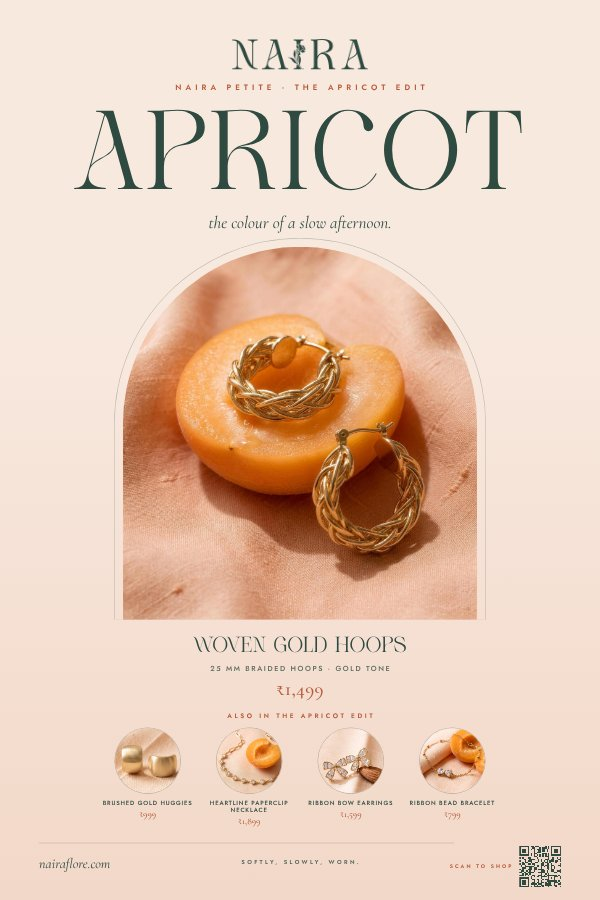
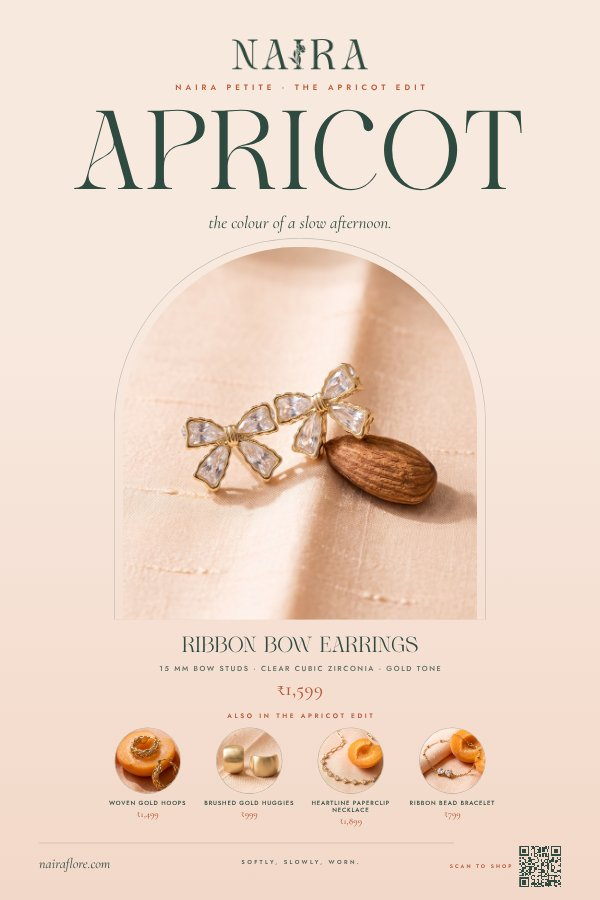
Stall back wall: the three colour-camp standees at 24 × 36 in
The back wall now uses the APRICOT, SAGE and LILAC standee posters, fitted to 24 × 36 in with their vectors intact.
Patches bring them up to date with the live store: the huggies sticker now reads ₹999, every "waterproof" claim is
removed, the spec lines say gold-tone, the Sage QR is redrawn dark on light so phones can read it, and the stand base
carries the brand line. The side-poster heroes are swapped so no photo repeats one on the back wall. elevation.py draws
the walls to scale and a lineup of all seven posters.

Claude-Session: https://claude.ai/code/session_015dHqE92KQXn2h19sPkpsQR

diff --git a/docs/creative/stall/standees_print.py b/docs/creative/stall/standees_print.py
@@ -1,0 +1,194 @@
+# The three colour-camp standees (APRICOT, SAGE, LILAC) as the back-wall posters, 24 × 36 in.
+# The 4 × 6 ft standee PDFs (122 × 182.6 cm, from ../colour-camps) are already 2:3, so each is placed at half size
+# (x 0.4997, y 0.5008 — a 0.2% stretch nobody can see) on an exact 24 × 36 in page, vector intact. Before that, patches are
+# laid over what has changed since September, matched to the original type by measuring each old line:
+#   · Brushed Gold Huggies is now ₹999 (was ₹1,099) — the sticker price is repainted (raster patch, the sticker is glossy)
+#   · the Sage QR was ivory on green, which phones misread: redrawn dark on an ivory tile
+#   · no "waterproof" claims: the Apricot taped strip, the Sage and Lilac footers, the Lilac side facts
+#   · "gold" is always "gold-tone": the Heartbead and Granule Dome spec lines (Sage)
+#   · the 12 cm stand base (now 6 cm) carries a quiet line: NAIRA PETITE · SOFTLY, SLOWLY, WORN.
+# Usage: <venv>/bin/python standees_print.py -> <scratchpad>/stall/out/Naira-Stall-back-<n>-<camp>-24x36in.pdf (+ jpg, preview)
+import io, os, subprocess, sys
+import numpy as np, cv2, segno
+from PIL import Image, ImageDraw, ImageFont
+from pypdf import PdfReader, PdfWriter, Transformation, PageObject
+from reportlab.pdfgen import canvas
+from reportlab.pdfbase import pdfmetrics
+from reportlab.pdfbase.ttfonts import TTFont
+
+SP = "/tmp/claude-0/-home-user-naira-scroll/81f6e48f-a340-5398-99b2-f7e22fb69d37/scratchpad"
+SRC = f"{SP}/stall/pdf/print"; OUT = f"{SP}/stall/out"; WORK = f"{SP}/stall/work/standees"
+MONO = f"{SP}/stall/fonts/JetBrainsMonowght400.ttf"; JOST = f"{SP}/cat/fonts/Jost[wght].ttf"
+pdfmetrics.registerFont(TTFont("JBMono", MONO))
+DPI = 400; K = DPI / 72
+CAMPS = [("A-apricot", 1, "apricot"), ("B-sage", 2, "sage"), ("C-lilac", 3, "lilac")]
+
+def render(pdf, box):
+    """box in pt (x0, y0, x1, y1), top-left origin -> RGB array at DPI"""
+    x0, y0, x1, y1 = box
+    base = f"{WORK}/r"
+    subprocess.run(["pdftoppm", "-r", str(DPI), "-x", str(int(x0 * K)), "-y", str(int(y0 * K)), "-W", str(int((x1 - x0) * K)),
+                    "-H", str(int((y1 - y0) * K)), "-png", "-singlefile", pdf, base], check=True)
+    return np.asarray(Image.open(base + ".png").convert("RGB")).astype(int)
+
+def measure(pdf, box):
+    """bg colour, ink colour and the ink extent (pt, page coords) of one line of text inside box"""
+    a = render(pdf, box); h, w, _ = a.shape
+    edge = np.concatenate([a[0], a[-1], a[:, 0], a[:, -1]])
+    bg = np.median(edge, axis=0)
+    d = np.abs(a - bg).sum(2); ink = d > 60
+    rows = ink.any(1); runs = []; st = None
+    for i, v in enumerate(list(rows) + [False]):          # keep only the line of text nearest the box's middle
+        if v and st is None: st = i
+        if not v and st is not None: runs.append((st, i)); st = None
+    mid = h / 2; r0, r1 = min(runs, key=lambda r: 0 if r[0] <= mid < r[1] else min(abs(r[0] - mid), abs(r[1] - mid)))
+    ink[:r0] = False; ink[r1:] = False
+    ys, xs = np.where(ink)
+    far = a[d >= np.percentile(d[ink], 70)]
+    col = np.median(far, axis=0)
+    x0, y0 = box[0], box[1]
+    return dict(bg=bg, ink=col, left=x0 + xs.min() / K, right=x0 + (xs.max() + 1) / K, top=y0 + ys.min() / K, base=y0 + (ys.max() + 1) / K)
+
+def mono_fit(cap_pt, extent_pt, text):
+    """font size from cap height, letter spacing from the line's ink width"""
+    f = ImageFont.truetype(MONO, 1000); cap = f.getbbox("H")[3] - f.getbbox("H")[1]
+    fs = cap_pt / (cap / 1000)
+    plain = pdfmetrics.stringWidth(text, "JBMono", fs)
+    lsb = f.getbbox(text[0])[0] / 1000 * fs; rsb = (f.getlength(text[-1]) - f.getbbox(text[-1])[2]) / 1000 * fs
+    ls = (extent_pt + lsb + rsb - plain) / max(1, len(text) - 1)
+    return fs, ls, lsb
+
+def rgb(c): return tuple(float(v) / 255 for v in c)
+
+class Patcher:
+    def __init__(self, pdf):
+        self.pdf = pdf; r = PdfReader(pdf); p = r.pages[0]
+        self.W, self.H = float(p.mediabox.width), float(p.mediabox.height)
+        self.buf = io.BytesIO(); self.c = canvas.Canvas(self.buf, pagesize=(self.W, self.H))
+
+    def line(self, box, old, new, cover=None, x=None, base=None, m=None):
+        """replace one line of mono text: measure `old` inside box, cover it, set `new` in the same face, size and spacing"""
+        m = m or measure(self.pdf, box)
+        fs, ls, lsb = mono_fit(m["base"] - m["top"], m["right"] - m["left"], old)
+        c = self.c; cx0, cy0, cx1, cy1 = cover or (m["left"] - 4, m["top"] - 6, m["right"] + 4, m["base"] + 6)
+        c.setFillColorRGB(*rgb(m["bg"])); c.rect(cx0, self.H - cy1, cx1 - cx0, cy1 - cy0, stroke=0, fill=1)
+        t = c.beginText(); t.setFont("JBMono", fs); t.setCharSpace(ls); t.setFillColorRGB(*rgb(m["ink"]))
+        t.setTextOrigin((x if x is not None else m["left"]) - lsb, self.H - (base if base is not None else m["base"])); t.textOut(new); c.drawText(t)
+        return m, fs, ls
+
+    def image(self, im, box):
+        x0, y0, x1, y1 = box; p = f"{WORK}/patch-{abs(hash(box)) % 99991}.png"; im.save(p)
+        self.c.drawImage(p, x0, self.H - y1, x1 - x0, y1 - y0, mask="auto")
+
+    def done(self):
+        self.c.showPage(); self.c.save(); self.buf.seek(0); return PdfReader(self.buf).pages[0]
+
+def apricot(P):
+    # the taped strip, redrawn on its own geometry (apricot.py, 4 ft stand): coral band 1.2 W wide, 1.8u tall, rotated -1.6°
+    Wpx, Hpx = 4611, 6901; u = Wpx / 100; fx, fy = P.W / Wpx, P.H / Hpx
+    base_h = 12 * 96 / 2.54; qr = min(max(.15 * Wpx, 8 * 96 / 2.54), 12 * 96 / 2.54); tick = 1.8 * u
+    tyk = Hpx - base_h - (qr + 2.4 * u) - tick - 1.2 * u
+    cx, cy, w, h = .5 * Wpx * fx, (tyk + tick / 2) * fy, 1.2 * Wpx * fx, tick * fy
+    fs = tick * .40 * fx; ls = .24 * fs
+    c = P.c; c.saveState(); c.translate(cx, P.H - cy); c.rotate(1.6)
+    c.setFillColorRGB(*rgb((224, 121, 90))); c.rect(-w / 2 - 3, -h / 2 - 2, w + 6, h + 4, stroke=0, fill=1)
+    t = c.beginText(); t.setFont("JBMono", fs); t.setCharSpace(ls); t.setFillColorRGB(*rgb((255, 248, 245)))
+    capH = 0.73 * fs; t.setTextOrigin(-w / 2, -capH / 2); t.textOut("SURGICAL STAINLESS STEEL · 18K GOLD TONE · NAIRA PETITE · " * 9); c.drawText(t)
+    c.restoreState()
+    # Brushed Gold Huggies sticker: ₹1,099 -> ₹999. The whole sticker is redrawn with the standee's own PLU drawing
+    # (base.plu_svg, minus its drop shadow, which stays from the original) at the size and centre fitted to the old one.
+    box = (560, 3940, 1000, 4250)
+    a = render(P.pdf, box).astype(np.uint8); ri = a.astype(int)
+    coral = (ri[..., 0] > 185) & (ri[..., 1] > 85) & (ri[..., 1] < 175) & (ri[..., 2] > 55) & (ri[..., 2] < 160) & (ri[..., 0] - ri[..., 2] > 70)
+    n, lab, st, _ = cv2.connectedComponentsWithStats(coral.astype(np.uint8), 8)
+    big = 1 + np.argmax(st[1:, cv2.CC_STAT_AREA])
+    hull = cv2.convexHull(np.argwhere(lab == big)[:, ::-1].astype(np.int32))
+    (ex, ey), (ea, eb), _ = cv2.fitEllipse(hull)
+    cx_pt, cy_pt = box[0] + ex / K, box[1] + ey / K
+    rx_css = max(ea, eb) / 2 / K / .75
+    w = rx_css / (.5 - 4 / 260) * 1.015      # a touch larger, so no edge of the old sticker shows
+    sticker_png(w, cx_pt / .75 - box[0] / .75, cy_pt / .75 - box[1] / .75, (box[2] - box[0]) / .75, (box[3] - box[1]) / .75, f"{WORK}/sticker.png")
+    P.image(Image.open(f"{WORK}/sticker.png"), box)
+
+def plu_svg(w, price_txt, top_txt, bot_txt, code, col, ink):
+    """base.plu_svg from the colour-camp standees, without the drop-shadow ellipse"""
+    k = w / 260; h = w * 0.72; rx, ry = w / 2 - 4 * k, h / 2 - 4 * k; cx, cy = w / 2, h / 2; u = f"{code}{int(w)}"
+    return f'''<svg width="{w:.1f}" height="{h:.1f}" viewBox="0 0 {w:.1f} {h:.1f}" style="overflow:visible;display:block">
+<defs><path id="pt{u}" d="M {cx-rx*0.78:.1f},{cy+2*k:.1f} A {rx*0.78:.1f},{ry*0.74:.1f} 0 0,1 {cx+rx*0.78:.1f},{cy+2*k:.1f}"/>
+<path id="pb{u}" d="M {cx-rx*0.80:.1f},{cy-4*k:.1f} A {rx*0.80:.1f},{ry*0.80:.1f} 0 0,0 {cx+rx*0.80:.1f},{cy-4*k:.1f}"/>
+<linearGradient id="gl{u}" x1="0" y1="0" x2="0.6" y2="1"><stop offset="0" stop-color="#fff" stop-opacity=".30"/><stop offset=".45" stop-color="#fff" stop-opacity="0"/></linearGradient></defs>
+<ellipse cx="{cx:.1f}" cy="{cy:.1f}" rx="{rx:.1f}" ry="{ry:.1f}" fill="{col}"/>
+<ellipse cx="{cx:.1f}" cy="{cy:.1f}" rx="{rx-9*k:.1f}" ry="{ry-9*k:.1f}" fill="none" stroke="{ink}" stroke-width="{1.6*k:.2f}" stroke-opacity=".85"/>
+<text font-family="JetBrains Mono" font-size="{w*0.052:.1f}" letter-spacing="{2.4*k:.1f}" fill="{ink}"><textPath href="#pt{u}" startOffset="50%" text-anchor="middle">{top_txt}</textPath></text>
+<text x="{cx:.1f}" y="{cy+w*0.07:.1f}" text-anchor="middle" font-family="Jost" font-weight="600" font-size="{w*0.20:.1f}" fill="{ink}">{price_txt}</text>
+<text font-family="JetBrains Mono" font-size="{w*0.046:.1f}" letter-spacing="{1.8*k:.1f}" fill="{ink}"><textPath href="#pb{u}" startOffset="50%" text-anchor="middle">{bot_txt}</textPath></text>
+<text x="{cx:.1f}" y="{cy+ry*0.58:.1f}" text-anchor="middle" font-family="JetBrains Mono" font-size="{w*0.040:.1f}" letter-spacing="{1.5*k:.1f}" fill="{ink}" fill-opacity=".8">PLU {code}</text>
+<ellipse cx="{cx:.1f}" cy="{cy:.1f}" rx="{rx:.1f}" ry="{ry:.1f}" fill="url(#gl{u})"/>
+</svg>'''
+
+def sticker_png(w, cx, cy, pw, ph, out):
+    svg = plu_svg(w, "₹999", "NAIRA PETITE · APRICOT", "BRUSHED HUGGIES · 12MM", "14776", "#E0795A", "#FFF8F5")
+    page = (f"<!doctype html><html><head><meta charset='utf-8'><style>@font-face{{font-family:'JetBrains Mono';src:url('file://{MONO}')}}"
+            f"@font-face{{font-family:Jost;src:url('file://{JOST}');font-weight:100 900}}html,body{{margin:0;background:transparent}}</style></head>"
+            f"<body><div style='position:absolute;left:{cx - w / 2:.2f}px;top:{cy - .36 * w:.2f}px;transform:rotate(-8deg)'>{svg}</div></body></html>")
+    open(f"{WORK}/sticker.html", "w").write(page)
+    js = (f"const {{chromium}}=require('playwright');(async()=>{{const b=await chromium.launch();const p=await b.newPage({{viewport:{{width:{round(pw)},height:{round(ph)}}},deviceScaleFactor:{K * .75}}});"
+          f"await p.goto('file://{WORK}/sticker.html');await p.evaluate(()=>document.fonts.ready);await p.waitForTimeout(200);"
+          f"await p.screenshot({{path:'{out}',omitBackground:true}});await b.close();}})();")
+    subprocess.run(["node", "-e", js], check=True, env=dict(os.environ, NODE_PATH="/opt/node-tools/node_modules"))
+
+def sage(P):
+    P.line((700, 4725, 1700, 4795), "WATERPROOF · SURGICAL STAINLESS STEEL", "SURGICAL STAINLESS STEEL · 18K GOLD TONE")
+    P.line((645, 2552, 1560, 2612), "6MM STEEL BEADS · GOLD TOGGLE · 15MM HEART", "6MM STEEL BEADS · GOLD-TONE TOGGLE · 15MM HEART")
+    P.line((1283, 3737, 2240, 3796), "16.8 × 15.7MM DOME · GOLD GRANULATION · NO STONES", "16.8 × 15.7MM DOME · GOLD-TONE GRANULATION · NO STONES")
+    # the QR was ivory on green, which most phone cameras will not read: an ivory tile with green modules, as on Apricot
+    # and Lilac, over the old code's footprint (x 310-663, y 4645-4999 px at 150 ppi on the 24 × 36 in page)
+    sx, sy = P.W / 1728 * .48, P.H / 2592 * .48; pad = 16
+    x0, y0, x1, y1 = (310 - pad) * sx, (4645 - pad) * sy, (663 + pad) * sx, (4999 + pad) * sy
+    c = P.c; c.setFillColorRGB(*rgb((245, 244, 237))); c.roundRect(x0, P.H - y1, x1 - x0, y1 - y0, 13 * sx, stroke=0, fill=1)
+    q = segno.make("https://nairaflore.com/?utm_source=stall", error="m"); mx = q.matrix; n = len(mx)
+    m = (x1 - x0) / (n + 3); qx, qy = x0 + 1.5 * m, y0 + 1.5 * m
+    c.setFillColorRGB(*rgb((31, 58, 49)))
+    for r, row in enumerate(mx):
+        for k, v in enumerate(row):
+            if v: c.rect(qx + k * m, P.H - (qy + (r + 1) * m), m * 1.002, m * 1.002, stroke=0, fill=1)
+
+def lilac(P):
+    m1 = measure(P.pdf, (2685, 1408, 2990, 1476))            # WATERPROOF
+    m2 = measure(P.pdf, (2685, 1468, 3220, 1536))            # SURGICAL STAINLESS
+    m3 = measure(P.pdf, (2685, 1527, 2990, 1594))            # STEEL
+    m4 = measure(P.pdf, (2685, 1587, 3100, 1656))            # RHODIUM PLATED
+    cover = (2680, m1["top"] - 8, 3230, m4["base"] + 10)
+    P.line(None, "WATERPROOF", "SURGICAL STAINLESS", cover=cover, x=m1["left"], base=m1["base"], m=m1)
+    P.line(None, "STEEL", "STEEL", cover=(0, 0, 0, 0), x=m1["left"], base=m2["base"], m=m3)
+    P.line(None, "RHODIUM PLATED", "RHODIUM PLATED", cover=(0, 0, 0, 0), x=m1["left"], base=m3["base"], m=m4)
+    P.line((660, 4548, 1660, 4612), "WATERPROOF · SURGICAL STAINLESS STEEL", "SURGICAL STAINLESS STEEL")
+
+def band_text(page_w, colour_rgb, text="NAIRA PETITE  ·  SOFTLY, SLOWLY, WORN."):
+    """the stand base (bottom 170 pt at 24 × 36 in) with one quiet line, as an overlay at final size"""
+    b = io.BytesIO(); c = canvas.Canvas(b, pagesize=(1728, 2592))
+    pdfmetrics.registerFont(TTFont("JostM", f"{SP}/c4/fonts/Jost-Medium.ttf"))
+    fs = 22; ls = .42 * fs; w = pdfmetrics.stringWidth(text, "JostM", fs) + ls * (len(text) - 1)
+    t = c.beginText(); t.setFont("JostM", fs); t.setCharSpace(ls); t.setFillColorRGB(*colour_rgb)
+    t.setTextOrigin((1728 - w) / 2, 170 / 2 - fs * .35); t.textOut(text); c.drawText(t)
+    c.showPage(); c.save(); b.seek(0); return PdfReader(b).pages[0]
+
+def main():
+    os.makedirs(WORK, exist_ok=True); os.makedirs(f"{OUT}/previews", exist_ok=True)
+    for key, n, name in CAMPS:
+        pdf = f"{SRC}/{key}-4x6ft.pdf"; P = Patcher(pdf)
+        {"A-apricot": apricot, "B-sage": sage, "C-lilac": lilac}[key](P)
+        over = P.done(); page = PdfReader(pdf).pages[0]; page.merge_page(over)
+        out = PageObject.create_blank_page(width=1728, height=2592)
+        out.merge_transformed_page(page, Transformation().scale(1728 / P.W, 2592 / P.H))
+        out.merge_page(band_text(1728, (1.0, 0.973, 0.96)))
+        w = PdfWriter(); w.add_page(out); w.add_metadata({"/Title": f"Naira Petite stall poster - {name} - 24 x 36 in"})
+        dst = f"{OUT}/Naira-Stall-back-{n}-{name}-24x36in"
+        with open(dst + ".pdf", "wb") as f: w.write(f)
+        subprocess.run(["pdftoppm", "-r", "150", "-jpeg", "-jpegopt", "quality=92", "-singlefile", dst + ".pdf", dst], check=True)
+        subprocess.run(["pdftoppm", "-scale-to-x", "600", "-scale-to-y", "900", "-jpeg", "-singlefile", dst + ".pdf",
+                        f"{OUT}/previews/Naira-Stall-back-{n}-{name}-24x36in"], check=True)
+        print(dst + ".pdf")
+
+if __name__ == "__main__":
+    main()

diff --git a/docs/creative/stall/posters.py b/docs/creative/stall/posters.py
@@ -2,8 +2,9 @@
 # themes of the exhibition standees. One per shell-scheme panel, each 24 × 36 in (2 × 3 ft) portrait:
 #   back:            the three catalogue covers, from covers_print.py
 #   spare (SAGE):    sage-edit (Heartbead hero, four more pieces)  ·  about (who Naira is, three on-model arches)
-#   left  (APRICOT): apricot-edit (Woven Gold Hoops hero)          ·  gifting (the blush box, prices by category)
-#   right (LILAC):   lilac-edit (Prism Rivière hero)               ·  catalogue (twelve on-model pieces, a large QR)
+#   left  (APRICOT): apricot-edit (Ribbon Bow Earrings hero)       ·  gifting (the blush box, prices by category)
+#   right (LILAC):   lilac-edit (Serpentine Whisper Chain hero)    ·  catalogue (twelve on-model pieces, a large QR)
+#   (the heroes differ from the back-wall Apricot and Lilac standees beside them, so no photo appears twice)
 # Pages are laid out at 96 CSS px per inch, so the PDF is exactly 24 × 36 in with the photos embedded at their own
 # resolution; a 150 ppi JPG and a small preview are written too.
 # Usage: posters.py [name ...] -> <scratchpad>/stall/out/Naira-Stall-<wall>-<n>-<name>-24x36in.{pdf,jpg}, previews/
@@ -28,17 +29,17 @@ THEME = {
     "LILAC":   dict(g1="#F2ECF5", g2="#E4D8EC", deep="#3A2D52", acc="#76599B", soft="#DDD0E7", line="rgba(58,45,82,.30)"),
 }
 EDITS = {
-    "APRICOT": dict(word="APRICOT", line="the colour of a slow afternoon.", hero=("A-apricot/i-001.jpg", (.49, .565)), h="woven-gold-hoops",
-                    spec="25 mm braided hoops · gold tone", more=[("brushed-gold-huggies", "A-apricot/i-005.jpg", (.5, .5)),
-                    ("heartline-paperclip-necklace", "A-apricot/i-007.jpg", (.5, .52)), ("ribbon-bow-earrings", "A-apricot/i-009.jpg", (.48, .45)),
+    "APRICOT": dict(word="APRICOT", line="the colour of a slow afternoon.", hero=("A-apricot/i-009.jpg", (.5, .5)), h="ribbon-bow-earrings",
+                    spec="15 mm bow studs · clear cubic zirconia · gold tone", more=[("woven-gold-hoops", "A-apricot/i-001.jpg", (.49, .565)),
+                    ("brushed-gold-huggies", "A-apricot/i-005.jpg", (.5, .5)), ("heartline-paperclip-necklace", "A-apricot/i-007.jpg", (.5, .52)),
                     ("ribbon-bead-bracelet", "A-apricot/i-011.jpg", (.5, .55))]),
     "SAGE":    dict(word="SAGE", line="the colour of quiet.", hero=("B-sage/i-003.jpg", (.55, .49)), h="heartbead-bracelet",
                     spec="6 mm steel beads · gold-tone toggle and heart", more=[("toggle-link-chain", f"{PLATES}/SAGE/sage_YF5143_S1_a5g.jpg", (.45, .46)),
                     ("verdant-circlet-studs", f"{PLATES}/SAGE/sage_FE02847B_S1_a4g.jpg", (.55, .45)), ("granule-dome-ring", f"{PLATES}/SAGE/sage_JDR0104337_S3_a2g.jpg", (.62, .38)),
                     ("chevron-whisper-ring", f"{PLATES}/SAGE/sage_JDR0303312-7_S3_a2g.jpg", (.6, .38))]),
-    "LILAC":   dict(word="LILAC", line="the colour of evening.", hero=("C-lilac/i-006.jpg", (.52, .485)), h="prism-riviere-bracelet",
-                    spec="5 mm cushion-cut cubic zirconia · rhodium", more=[("pearl-blossom-earrings", "C-lilac/i-015.jpg", (.55, .52)),
-                    ("silver-drop-earrings", "C-lilac/i-024.jpg", (.55, .55)), ("serpentine-whisper-chain-silver", "C-lilac/i-037.jpg", (.5, .6)),
+    "LILAC":   dict(word="LILAC", line="the colour of evening.", hero=("C-lilac/i-037.jpg", (.5, .55)), h="serpentine-whisper-chain-silver",
+                    spec="2 mm snake chain · 10 mm cushion-cut cubic zirconia · rhodium", more=[("prism-riviere-bracelet", "C-lilac/i-006.jpg", (.52, .485)),
+                    ("pearl-blossom-earrings", "C-lilac/i-015.jpg", (.55, .52)), ("silver-drop-earrings", "C-lilac/i-024.jpg", (.55, .55)),
                     ("vintage-halo-ring", "C-lilac/i-046.jpg", (.5, .62))]),
 }
 

diff --git a/docs/creative/stall/elevation.py b/docs/creative/stall/elevation.py
@@ -1,0 +1,54 @@
+# The stall unfolded: left wall, back wall and right wall side by side, each 24 × 36 in poster on its own white
+# shell-scheme panel (about 1 m × 2.5 m, aluminium uprights) at true scale, with the table line and a person for scale.
+# Usage: elevation.py <out.jpg> <left-1> <left-2> <back-1> <back-2> <back-3> <right-1> <right-2>   (poster JPGs)
+#        elevation.py --lineup <out.jpg> <same seven>   -> the seven side by side, large, labelled, in wall order
+import sys
+from PIL import Image, ImageDraw, ImageFont
+
+PX = 420                                   # px per metre
+PANEL_W, PANEL_H = .99, 2.5                # one shell-scheme panel
+POSTER_W, POSTER_H = .6096, .9144          # 24 × 36 in
+TOP = 2.05                                 # poster top edge from the floor
+F = "/usr/share/fonts/truetype/dejavu/DejaVuSans.ttf"
+
+def main(out, *posters):
+    walls = [("LEFT WALL", posters[0:2]), ("BACK WALL", posters[2:5]), ("RIGHT WALL", posters[5:7])]
+    gap = .55; n = sum(len(p) for _, p in walls)
+    W = round((n * PANEL_W + (len(walls) - 1) * gap + .4) * PX); H = round((PANEL_H + .75) * PX)
+    im = Image.new("RGB", (W, H), "#F4F1EC"); d = ImageDraw.Draw(im)
+    f1 = ImageFont.truetype(F, 54); f2 = ImageFont.truetype(F, 34)
+    x = .2 * PX; floor = H - .45 * PX
+    for name, ps in walls:
+        x0 = x
+        for p in ps:
+            px0, py0 = round(x), round(floor - PANEL_H * PX)
+            d.rectangle([px0, py0, px0 + PANEL_W * PX, floor], fill="#FBFBFA", outline="#C9CCCF", width=3)
+            pw, ph = round(POSTER_W * PX), round(POSTER_H * PX)
+            img = Image.open(p).convert("RGB").resize((pw, ph), Image.LANCZOS)
+            ix = round(x + (PANEL_W * PX - pw) / 2); iy = round(floor - TOP * PX)
+            d.rectangle([ix + 4, iy + 6, ix + pw + 4, iy + ph + 6], fill="#E2E2E0"); im.paste(img, (ix, iy))
+            x += PANEL_W * PX
+        # table (75 cm) in front of the wall
+        d.rectangle([round(x0 + .15 * PX), round(floor - .75 * PX), round(x - .15 * PX), round(floor)], fill="#E6D6C4", outline="#CDBBA6", width=2)
+        d.text((x0, floor + .12 * PX), name, fill="#1A1614", font=f1)
+        x += gap * PX
+    d.text((.2 * PX, 30), "NAIRA PETITE · STALL WALLS, TO SCALE · posters 24 × 36 in, top edge 2.05 m from the floor · table 75 cm", fill="#6E625A", font=f2)
+    im.save(out, quality=90)
+
+LABELS = ["LEFT 1", "LEFT 2", "BACK 1", "BACK 2", "BACK 3", "RIGHT 1", "RIGHT 2"]
+
+def lineup(out, *posters):
+    pw, ph, g, wg, m = 720, 1080, 36, 110, 90
+    W = 2 * m + 7 * pw + 4 * g + 2 * wg; H = m + ph + 150
+    im = Image.new("RGB", (W, H), "#F4F1EC"); d = ImageDraw.Draw(im); f = ImageFont.truetype(F, 34)
+    x = m
+    for i, (p, lab) in enumerate(zip(posters, LABELS)):
+        d.rectangle([x + 5, m + 8, x + pw + 5, m + ph + 8], fill="#E2E0DC")
+        im.paste(Image.open(p).convert("RGB").resize((pw, ph), Image.LANCZOS), (x, m))
+        d.text((x, m + ph + 34), lab, fill="#1A1614", font=f)
+        x += pw + (wg if i in (1, 4) else g)
+    im.save(out, quality=90)
+
+if __name__ == "__main__":
+    if sys.argv[1] == "--lineup": lineup(*sys.argv[2:])
+    else: main(*sys.argv[1:])

diff --git a/docs/creative/stall/README.md b/docs/creative/stall/README.md
@@ -17,23 +17,41 @@ Seven wall posters for the shell-scheme stall, one per panel.
 
 | Wall | Panel | File | Poster |
 |---|---|---|---|
-| Back (main, faces visitors) | left | `Naira-Stall-back-1-the-wall-24x36in.pdf` | The Wall: every piece on her, coral CATALOGUE badge, QR |
-| Back | centre | `Naira-Stall-back-2-now-showing-24x36in.pdf` | Now Showing: CHAMAK film poster, the cast, QR |
-| Back | right | `Naira-Stall-back-3-naira-times-24x36in.pdf` | The Naira Times: SHE WORE IT ALL., Nashik edition, QR |
-| Left | 1 | `Naira-Stall-left-1-apricot-edit-24x36in.pdf` | APRICOT edit: Woven Gold Hoops, four more pieces |
+| Back (main, faces visitors) | left | `Naira-Stall-back-1-apricot-24x36in.pdf` | APRICOT colour camp: the standee poster |
+| Back | centre | `Naira-Stall-back-2-sage-24x36in.pdf` | SAGE colour camp: the standee poster |
+| Back | right | `Naira-Stall-back-3-lilac-24x36in.pdf` | LILAC colour camp: the standee poster |
+| Left | 1 | `Naira-Stall-left-1-apricot-edit-24x36in.pdf` | APRICOT edit: Ribbon Bow Earrings, four more pieces |
 | Left | 2 | `Naira-Stall-left-2-gifting-24x36in.pdf` | Gift it beautifully: the blush box, prices by category |
-| Right | 1 | `Naira-Stall-right-1-lilac-edit-24x36in.pdf` | LILAC edit: Prism Rivière, four more pieces |
+| Right | 1 | `Naira-Stall-right-1-lilac-edit-24x36in.pdf` | LILAC edit: Serpentine Whisper Chain, four more pieces |
 | Right | 2 | `Naira-Stall-right-2-catalogue-24x36in.pdf` | See it all: twelve pieces on her, large QR |
 
-Spares, built but not in the set: SAGE edit and About us (`posters.py sage-edit about`).
+The colours run apricot → apricot · sage · lilac → lilac around the stall (`previews/00-wall-order.jpg`,
+`previews/01-walls-to-scale.jpg`). The side heroes were chosen so no photo repeats one on the back wall.
 
-Every QR opens `nairaflore.com/?utm_source=stall`, so stall traffic shows up separately in Shopify analytics. The
-link is kept short so the codes have large modules and scan from a distance. Prices are the live store prices of 20 Oct 2026.
+Spares, built but not in the set: SAGE edit and About us (`posters.py sage-edit about`). The catalogue-cover back
+wall (The Wall, Now Showing, The Naira Times; `covers_print.py`) was replaced by the colour-camp standees.
+
+### What changed on the standees
+
+The back wall uses the 4 × 6 ft colour-camp standee PDFs from `../colour-camps`. Each one is already 2:3, so it is placed
+at half size with its vectors intact. Before that, patches matched to the original type update it to the live store:
+
+- Brushed Gold Huggies sticker: ₹1,099 → **₹999**.
+- No "waterproof" anywhere: the Apricot taped strip, the Sage and Lilac footers, and the Lilac side facts.
+- "Gold" → **gold-tone** on the Sage spec lines (Heartbead, Granule Dome).
+- Sage QR: it was ivory on green, which most phones cannot read. It is now green on an ivory tile, like Apricot and Lilac.
+- The 12 cm stand base (now 6 cm at poster size) carries one line: NAIRA PETITE · SOFTLY, SLOWLY, WORN.
+
+Every QR on the side posters, and the Sage standee's, opens `nairaflore.com/?utm_source=stall`, so stall traffic shows up
+separately in Shopify analytics. The link is kept short so the codes have large modules and scan from a distance. The
+Apricot and Lilac standees keep their original links (`utm_source=standee`, with the camp as `utm_campaign`). Prices are the live store prices of 20 Oct 2026.
 
 ## Building
 
 - `posters.py`: the side posters.
-- `covers_print.py`: the back-wall covers, reusing `../catalogue/covers.py` in its `2x3` layout.
+- `standees_print.py`: the back wall. It patches the three colour-camp standees and fits them to 24 × 36 in.
+- `elevation.py`: the stall walls to scale, and (`--lineup`) the seven posters side by side.
+- `covers_print.py`: the earlier catalogue-cover back wall, kept as a spare. It reuses `../catalogue/covers.py` in its `2x3` layout.
 - `upscale.py`: Real-ESRGAN x4, blended 65/35 with Lanczos. It upscales any photo crop that would otherwise print soft.
 - `render_print.cjs`: writes the PDF, a 150 ppi JPG and a preview.
 
